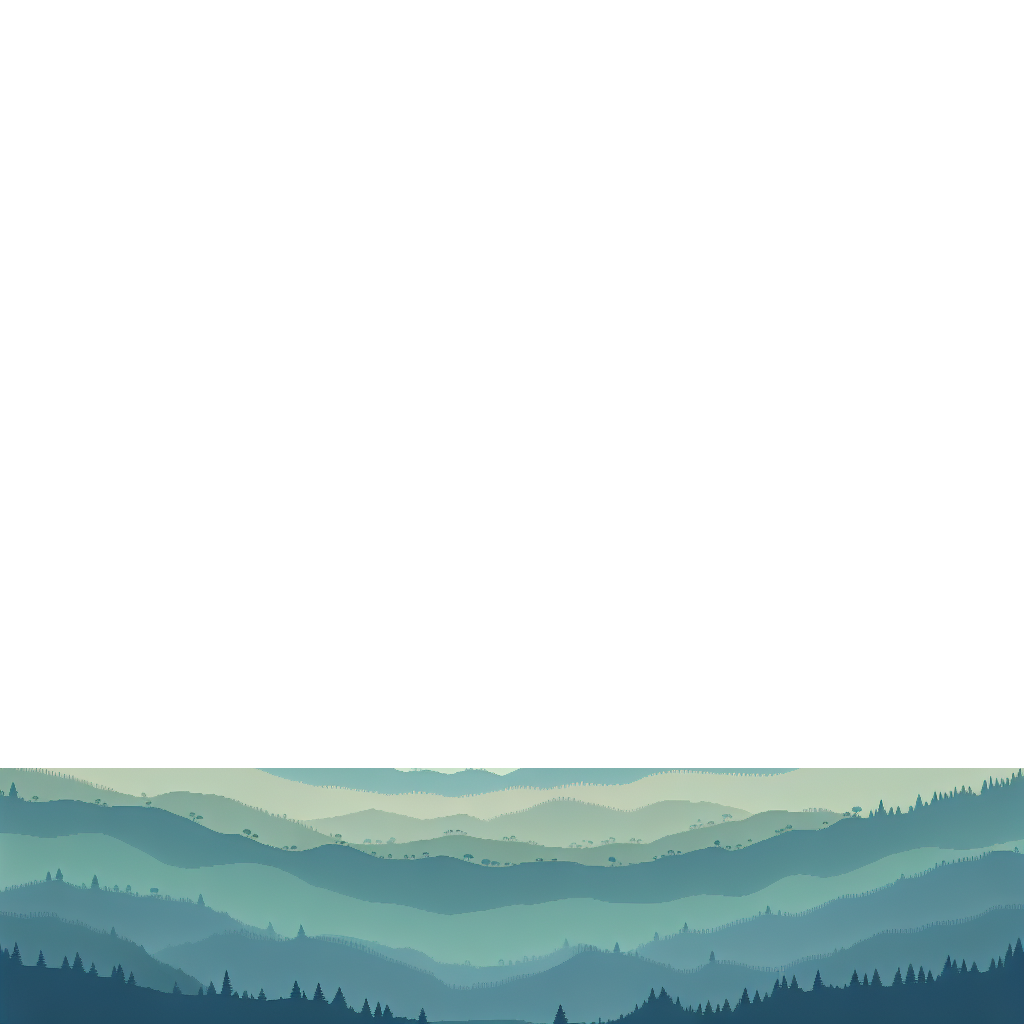
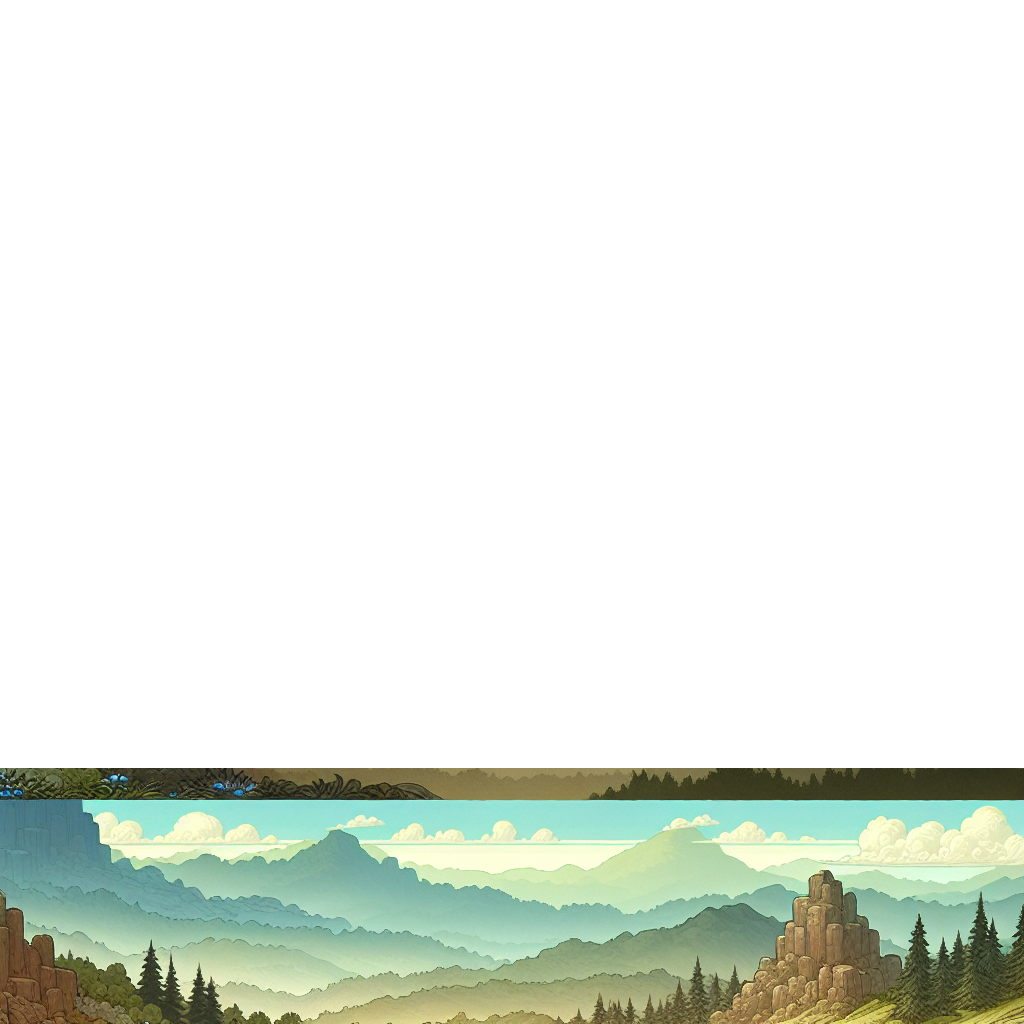
🦀Generated files for 2025-06-28🦀

Changed region(s): [[0.0, 0.75, 1.0, 1.0]]

diff --git a/README.md b/README.md
@@ -19,6 +19,4 @@ Additionally, the GIF generation pipeline may produce totally botched results wh
 
 ![image](images/image_current.png)
 
-**Prompt:** Background for 2d side-scrolling game, which have 4 separate horizontal layers.  
-Layer 1 (256px): Distant sky with subtle gradient and faint clouds, using light blues and soft whites to create depth.  
-Layer 2 (512px): Mid-distant mountains and hills with gentle curves, in darker blues and muted greens, adding some variation with small trees.
+**Prompt:** Background for 2d side-scrolling game, which have 4 separate horizontal layers. Layer 1: a distant sky with subtle gradient and scattered clouds in light blue and soft beige tones, creating a vast, open atmosphere. Layer 2: mid-distant mountain ranges and rolling hills in darker blues and muted greens, adding depth. Layer 3: closer trees and rocky formations with detailed foliage in rich greens and browns, providing textured background elements.
